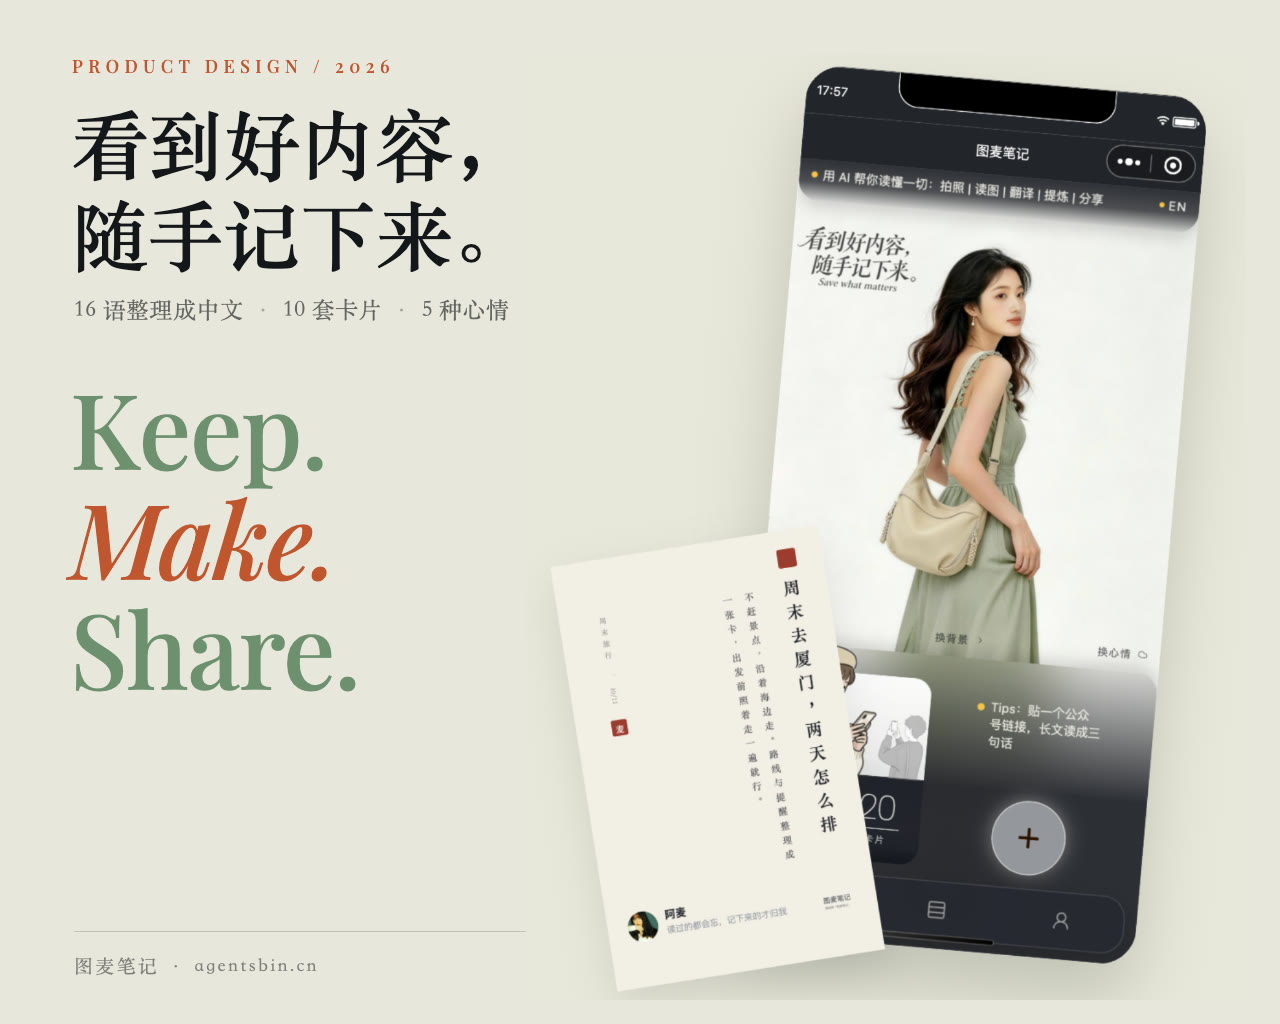
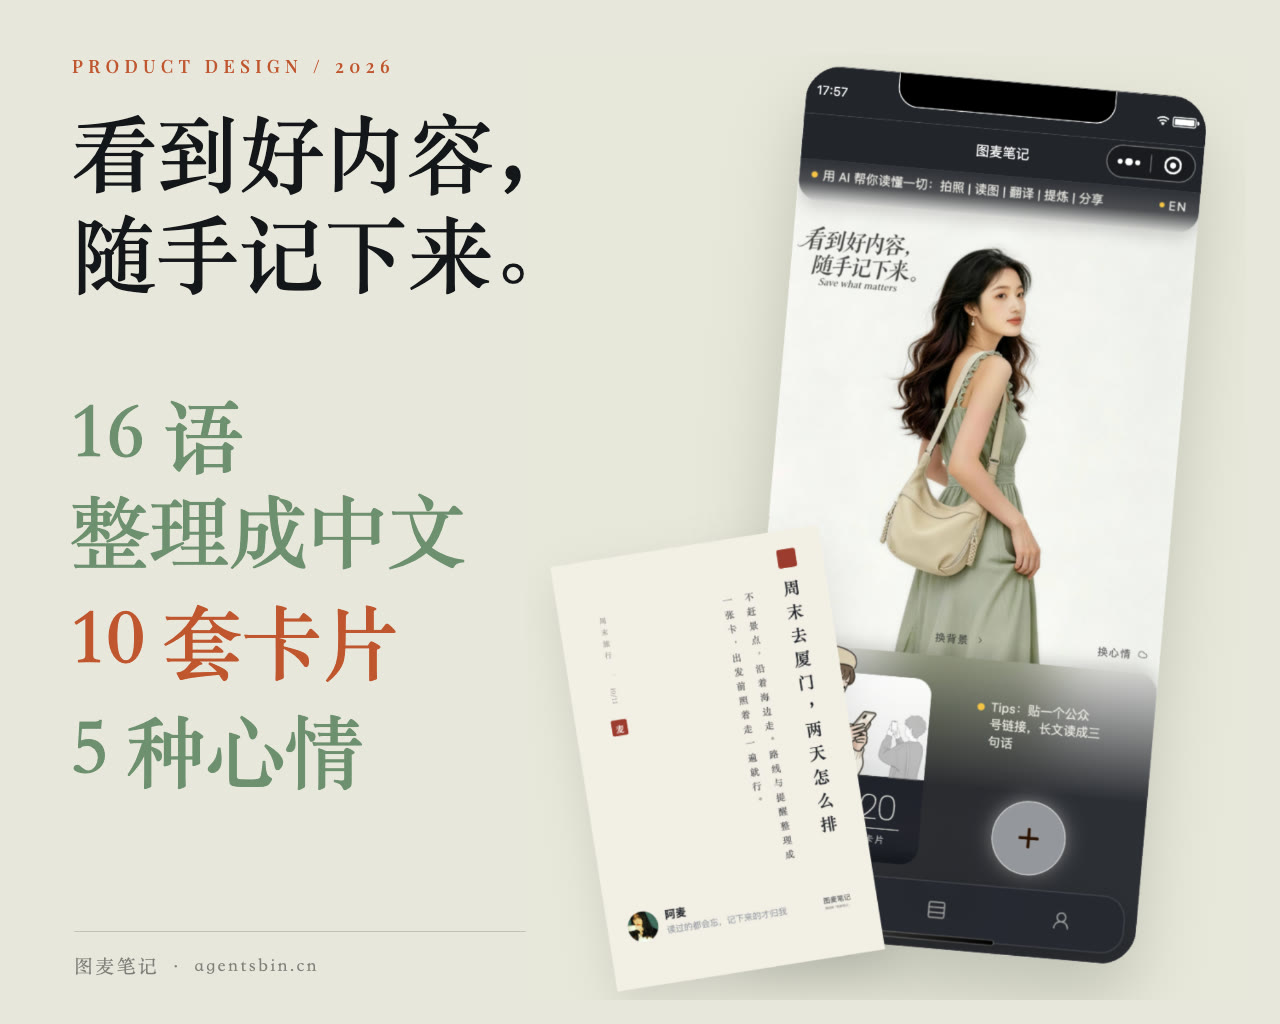
分享封面：副标题单独拎出来占展示字那几行，撤掉英文 Keep./Make./Share.
Why: 站长 10-15 深夜一句「你要把副标题单独拎出来，替换掉英文」。

How: 原来那行小字副题（16 语整理成中文 · 10 套卡片 · 5 种心情）删掉，把这三项放大成
参照图里 Keep./Make./Share. 占的那一块，颜色顺序照参照图 sage→clay→sage。九字那一行
按 84px 量会顶到右边那组裁片（裁片左边缘在 x 526），所以整块降到 80px 并把第一项拆两行
（16 语 / 整理成中文），最宽那一行 455 < 526，不再被盖。
-q:v 3 = 124,912 字节（上限 131,072，只剩 4.7% 余量——中文字多了就这么紧）。

Changed region(s): [[0.0625, 0.375, 0.375, 0.7812], [0.0625, 0.0938, 0.4062, 0.3125]]

diff --git a/docs/design/分享图-20261015/重排版-照V7封面图文.html b/docs/design/分享图-20261015/重排版-照V7封面图文.html
@@ -17,15 +17,16 @@ body { width: 1280px; height: 1024px; overflow: hidden; }
 
 .kick { position: absolute; left: 72px; top: 54px; font-family: 'Playfair'; font-weight: 500; font-size: 18px;
   letter-spacing: .3em; color: #C0552F; }
-.h1 { position: absolute; left: 72px; top: 96px; width: 520px; font-size: 76px; line-height: 1.2; font-weight: 700; }
-.sub { position: absolute; left: 74px; top: 292px; width: 520px; font-size: 23px; line-height: 1.5;
-  letter-spacing: .02em; color: rgba(20,22,26,.62); }
-.sub b { font-weight: 400; color: rgba(20,22,26,.32); padding: 0 8px; }
+.h1 { position: absolute; left: 72px; top: 100px; width: 560px; font-size: 84px; line-height: 1.2; font-weight: 700; }
 
-.disp { position: absolute; left: 70px; top: 372px; font-family: 'Playfair'; font-weight: 500; font-size: 104px;
-  line-height: 1.06; letter-spacing: -.01em; }
+/* 副标题单独拎出来占展示字那几行（站长 10-15 深夜：「把副标题单独拎出来，替换掉英文」）
+   颜色顺序照参照图那三行：sage → clay → sage；第一项九个字一行会顶到右边那组裁片，拆成两行。 */
+.disp { position: absolute; left: 70px; top: 384px; font-size: 80px; line-height: 1.2; font-weight: 700;
+  letter-spacing: -.01em; }
 .disp div { color: #6E9070; }
-.disp .c { color: #C0552F; font-style: italic; }
+.disp .c { color: #C0552F; }
+.disp .i2 { margin-top: 14px; }
+.disp .i3 { margin-top: 14px; }
 
 .foot { position: absolute; left: 74px; bottom: 46px; font-size: 19px; letter-spacing: .12em; color: rgba(20,22,26,.5); }
 .rule { position: absolute; left: 74px; right: 40px; bottom: 92px; height: 1px; background: rgba(20,22,26,.18); }
@@ -39,9 +40,8 @@ body { width: 1280px; height: 1024px; overflow: hidden; }
 <div class="card">
   <div class="kick">PRODUCT DESIGN / 2026</div>
   <div class="h1">看到好内容，<br>随手记下来。</div>
-  <div class="sub">16 语整理成中文<b>·</b>10 套卡片<b>·</b>5 种心情</div>
 
-  <div class="disp"><div>Keep.</div><div class="c">Make.</div><div>Share.</div></div>
+  <div class="disp"><div>16 语</div><div>整理成中文</div><div class="c i2">10 套卡片</div><div class="i3">5 种心情</div></div>
 
   <div class="rule"></div>
   <div class="foot">图麦笔记 · agentsbin.cn</div>

diff --git a/miniprogram/pages/me/me.js b/miniprogram/pages/me/me.js
@@ -478,7 +478,7 @@ Page({
   // 来结账（backend/app/services/quota.py：动笔写名下第一条 +10，别人把某一转存进自己库
   // 里作者 +1；带来几个人不限、同一篇被几个人转存就算几次，但同一个人对同一篇只算一次），
   // 所以这行写的是一笔真实的兑换，不是许愿。
-  // 封面是一张 5:4 图（assets/share-card.jpg，115KB / 117,353 字节，微信上限 128KB）：
+  // 封面是一张 5:4 图（assets/share-card.jpg，122KB / 124,912 字节，微信上限 128KB，只剩 4.7% 余量）：
   // 不给 imageUrl 的话微信会截当前页，截到的是一屏菜单，推广位就废了。
   // 源件在 docs/design/分享图-20261015/重排版-照V7封面图文.html，改字改色都从它重出，别手改图。
   onShareAppMessage() {
